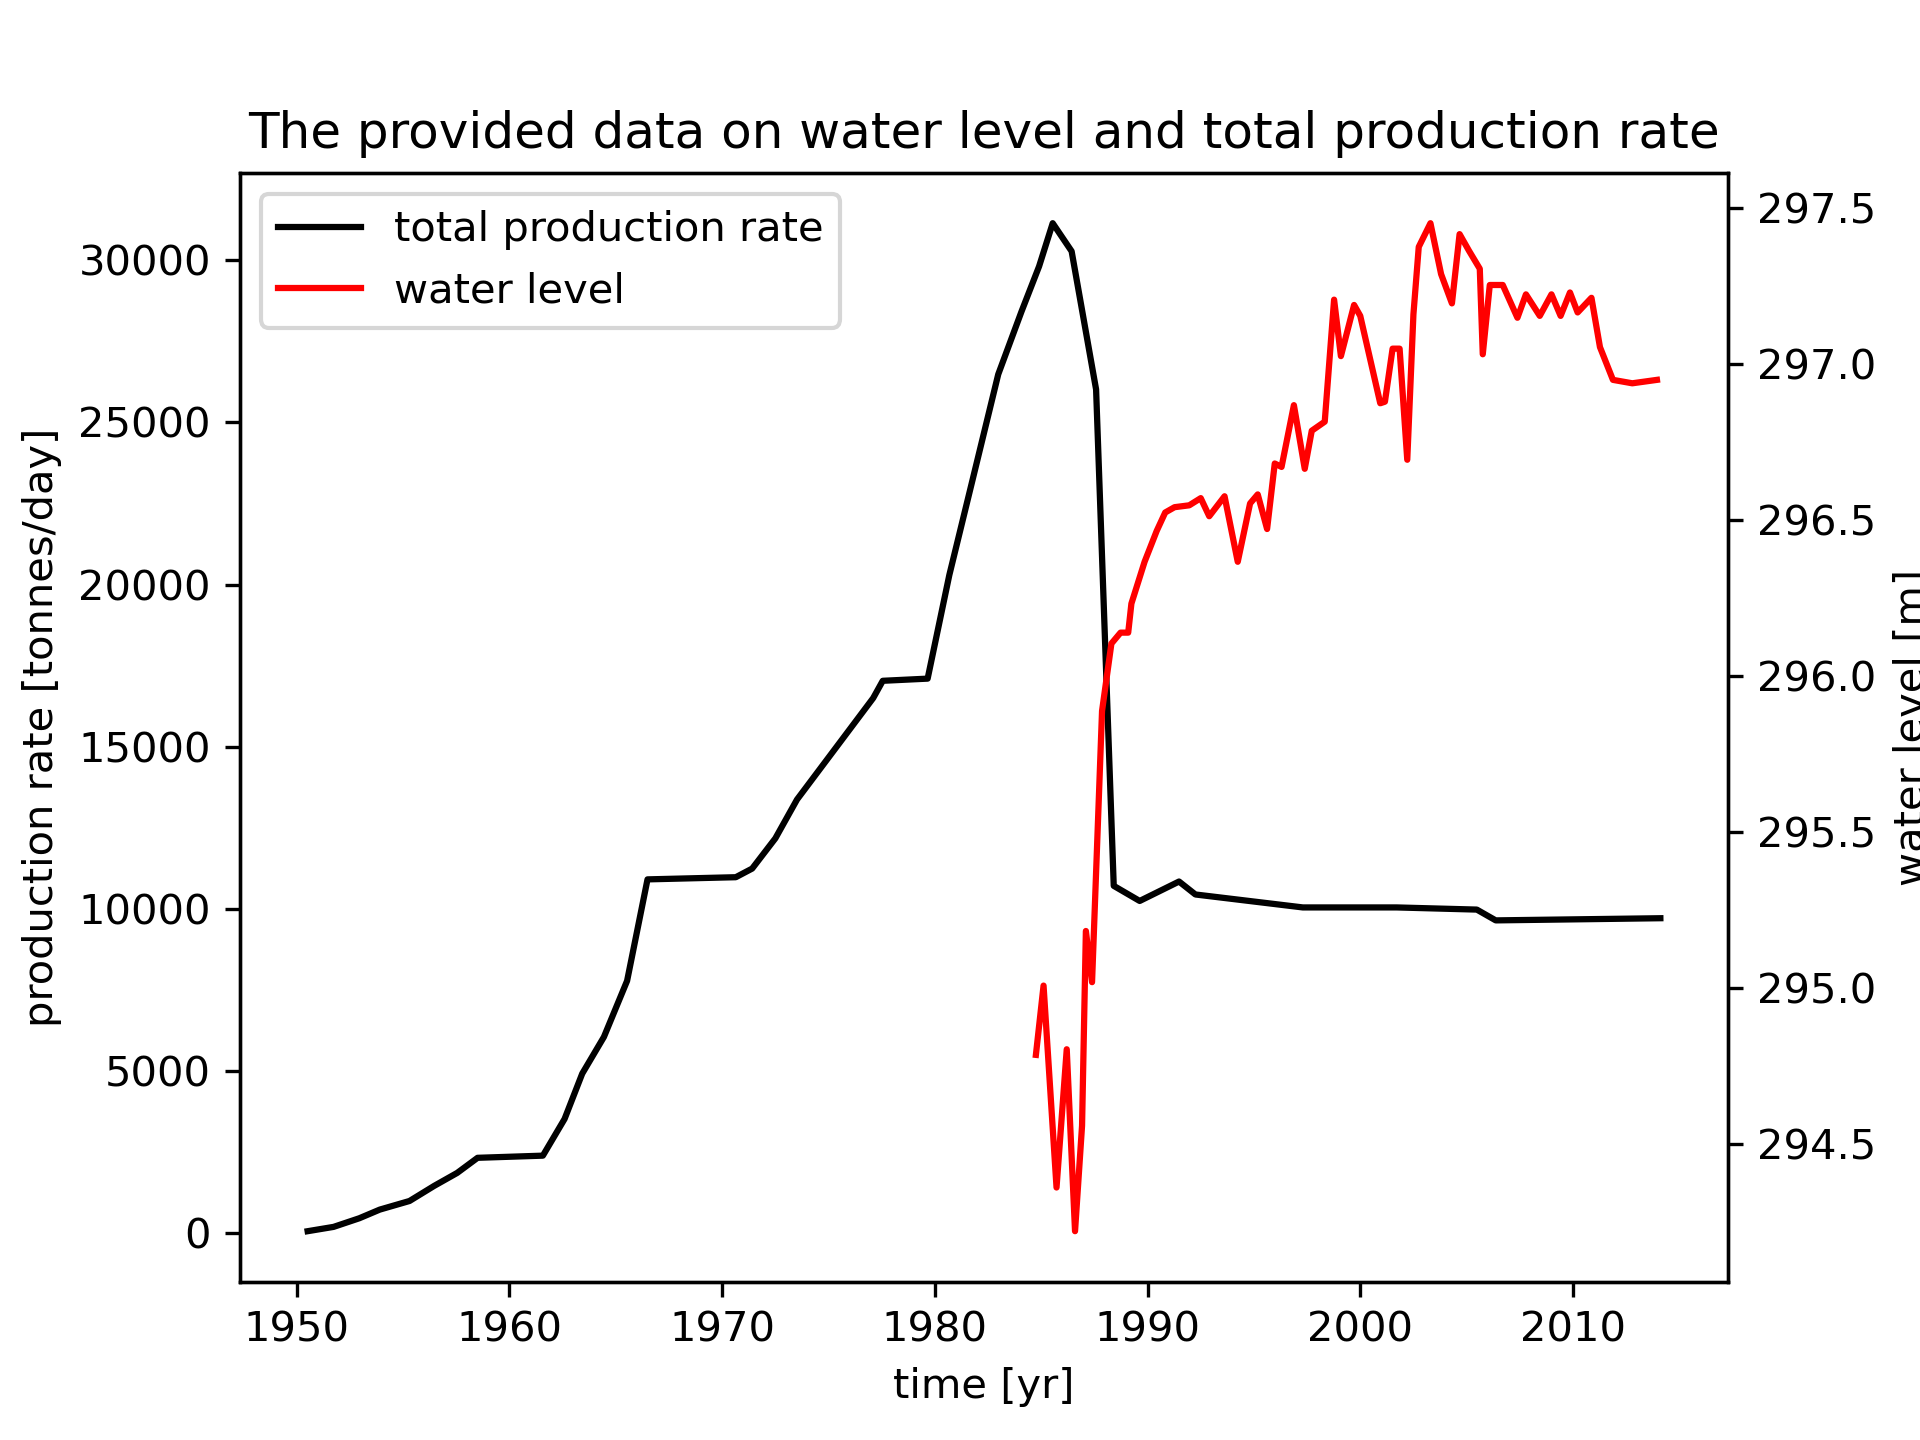
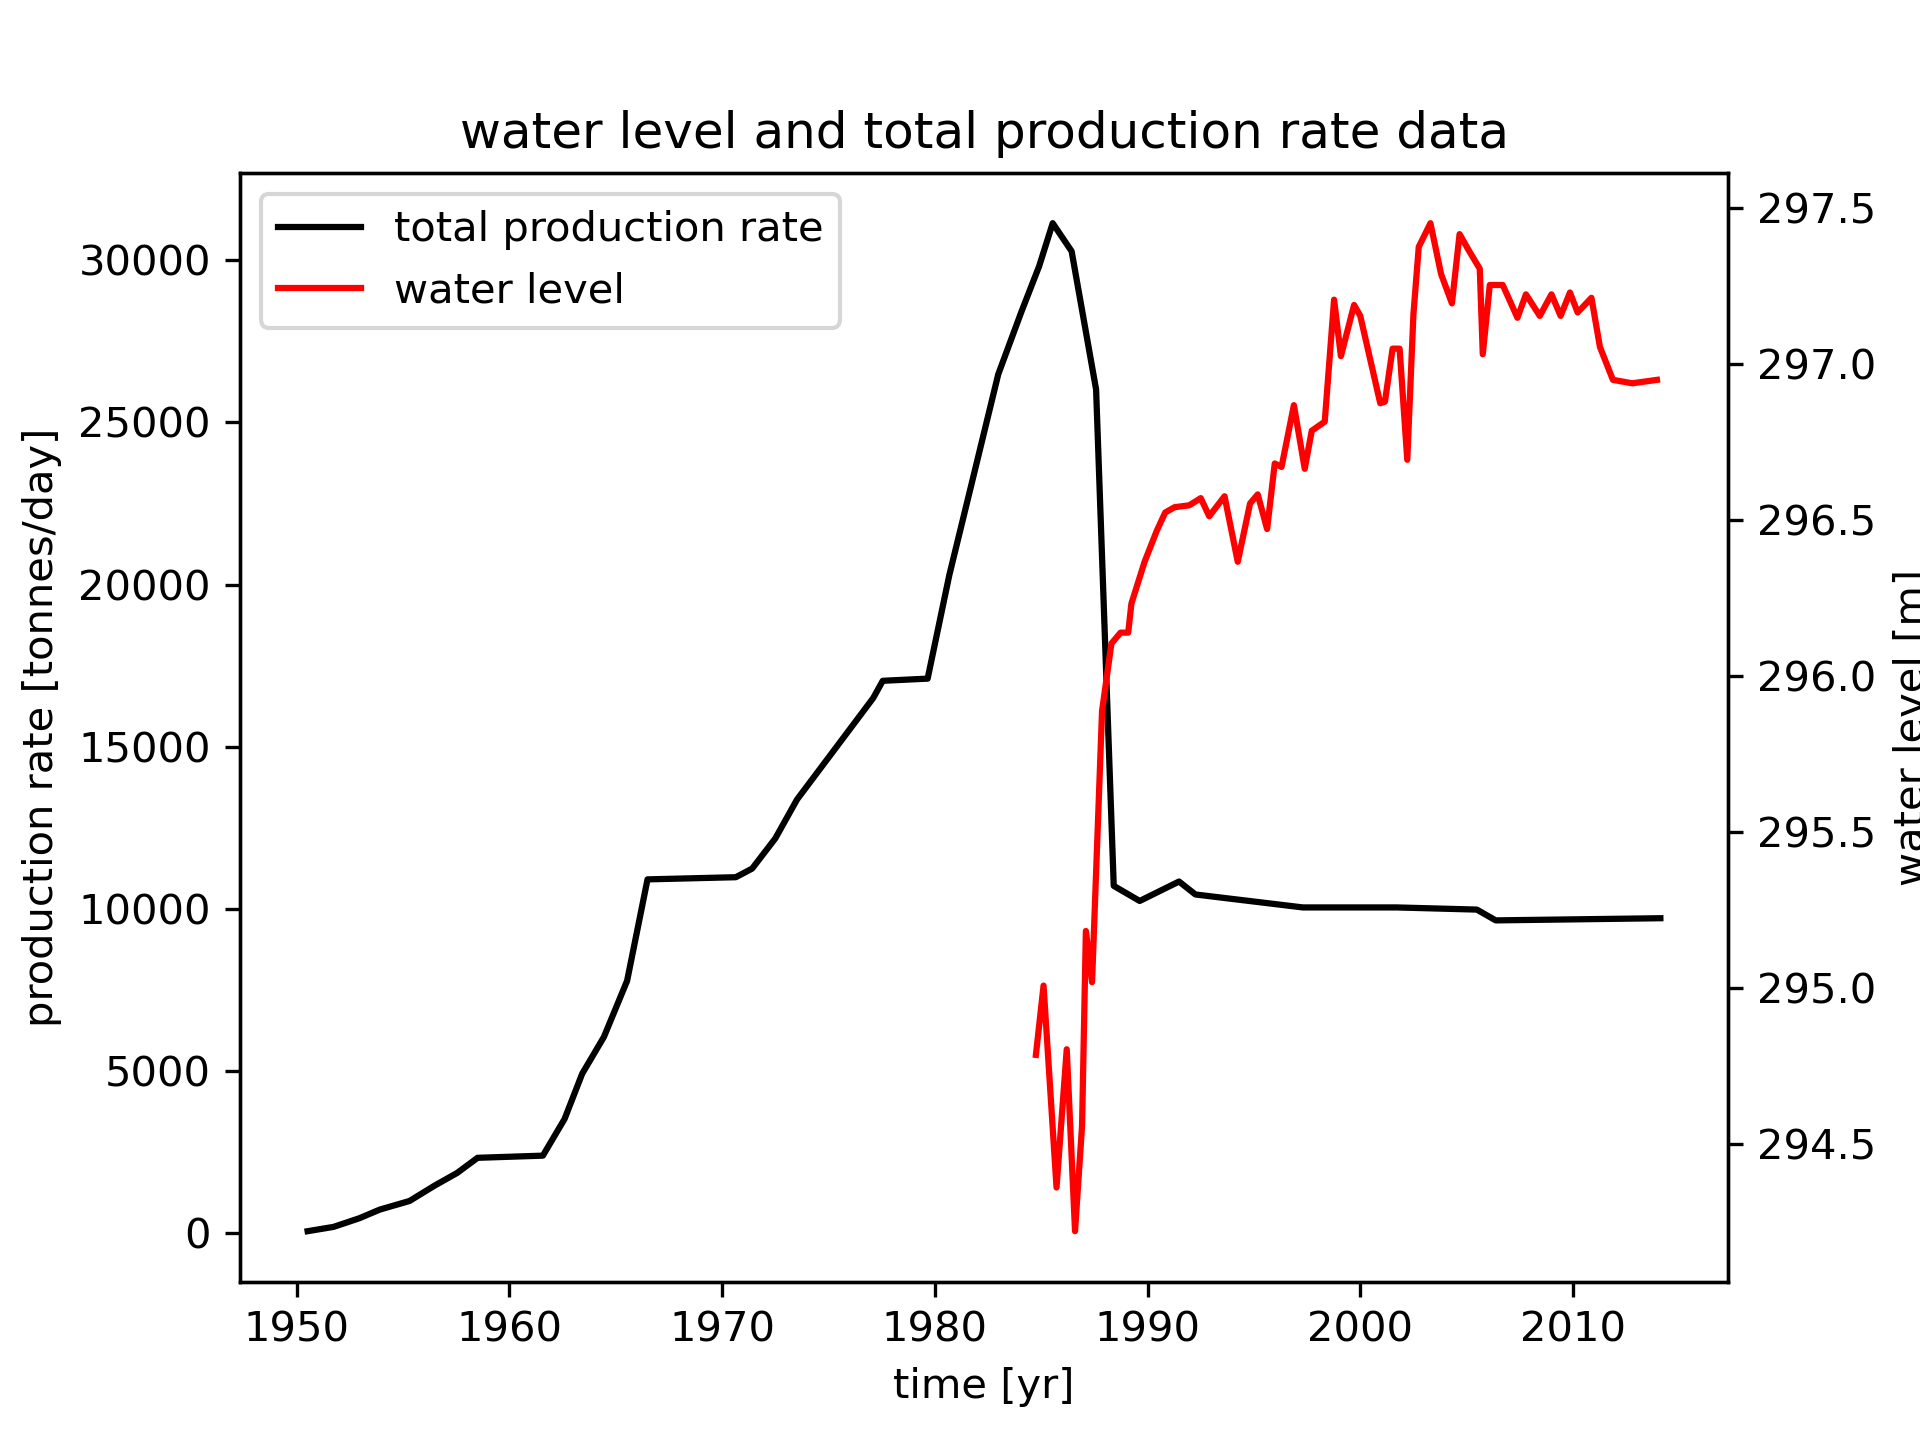
given data visualisation

Changed region(s): [[0.125, 0.0625, 0.9062, 0.125]]

diff --git a/code/plotting_data.py b/code/plotting_data.py
@@ -33,7 +33,7 @@ if run_plot1:
     ax2.set_ylabel('water level [m]')
     ax2.set_xlabel('time [yr]')
     ax1.set_xlabel('time [yr]')
-    ax2.set_title('The provided data on water level and total production rate')
+    ax2.set_title('water level and total production rate data')
 
     # EITHER show the plot to the screen OR save a version of it to the disk
     save_figure = False
@@ -83,7 +83,7 @@ if run_plot2:
     ax2.set_ylabel('pressure [bar]')
     ax2.set_xlabel('time [yr]')
     ax1.set_xlabel('time [yr]')
-    ax2.set_title('The calculated pressure and provided data on total production rate')
+    ax2.set_title('total production rate data and calculated pressure')
 
     # EITHER show the plot to the screen OR save a version of it to the disk
     save_figure = False
@@ -118,7 +118,7 @@ if run_plot3:
     ax2.set_ylabel('Temperature [degC]')
     ax2.set_xlabel('time [yr]')
     ax1.set_xlabel('time [yr]')
-    ax2.set_title('The provided data on temperature and total production rate')
+    ax2.set_title('temperature and total production rate data')
 
     # EITHER show the plot to the screen OR save a version of it to the disk
     save_figure = False
